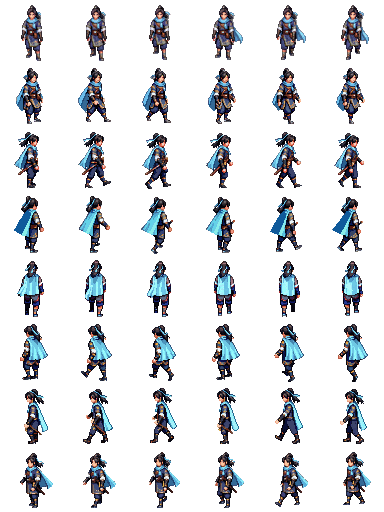
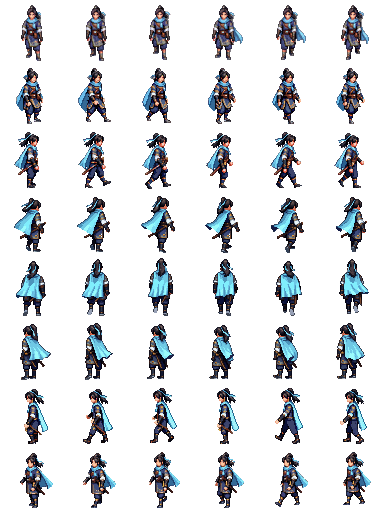
v87.2-0 8位角色往上走(北/東北/西北)的走路動作重做：長袍裙擺不再變褲子
Claude-Session: https://claude.ai/code/session_01TfDhagCiaMjipPx8vrMTLg

diff --git a/sw.js b/sw.js
@@ -2,7 +2,7 @@
 // 讓遊戲可以「安裝到桌面/主畫面」成為獨立App，並提供離線快取(圖片/音效載入過一次後，
 // 離線或網路不穩時也能照常遊玩；index.html本身每次都優先抓最新版，確保更新後玩家能立刻拿到新內容)。
 
-const CACHE_VERSION = 'v87.1-0';           // 每次正式更新版本號時手動遞增，瀏覽器才會清掉舊快取換新的
+const CACHE_VERSION = 'v87.2-0';           // 每次正式更新版本號時手動遞增，瀏覽器才會清掉舊快取換新的
 const SHELL_CACHE = 'lineage-pixel-shell-' + CACHE_VERSION;
 const ASSET_CACHE  = 'lineage-pixel-assets-' + CACHE_VERSION;
 

diff --git a/index.html b/index.html
@@ -10885,7 +10885,7 @@ function drawSlotEmpty(x){ x.clearRect(0,0,200,200); }
 })();
 /* ============ 更新系統（登入首頁） ============ */
 // 版本號：每次正式更新時，這裡和 sw.js 的 CACHE_VERSION 一起遞增
-const GAME_VER='v87.1-0';
+const GAME_VER='v87.2-0';
 let _updNew=null;
 async function checkUpdate(manual){
   const msg=document.getElementById('updMsg'), btn=document.getElementById('updBtn');
